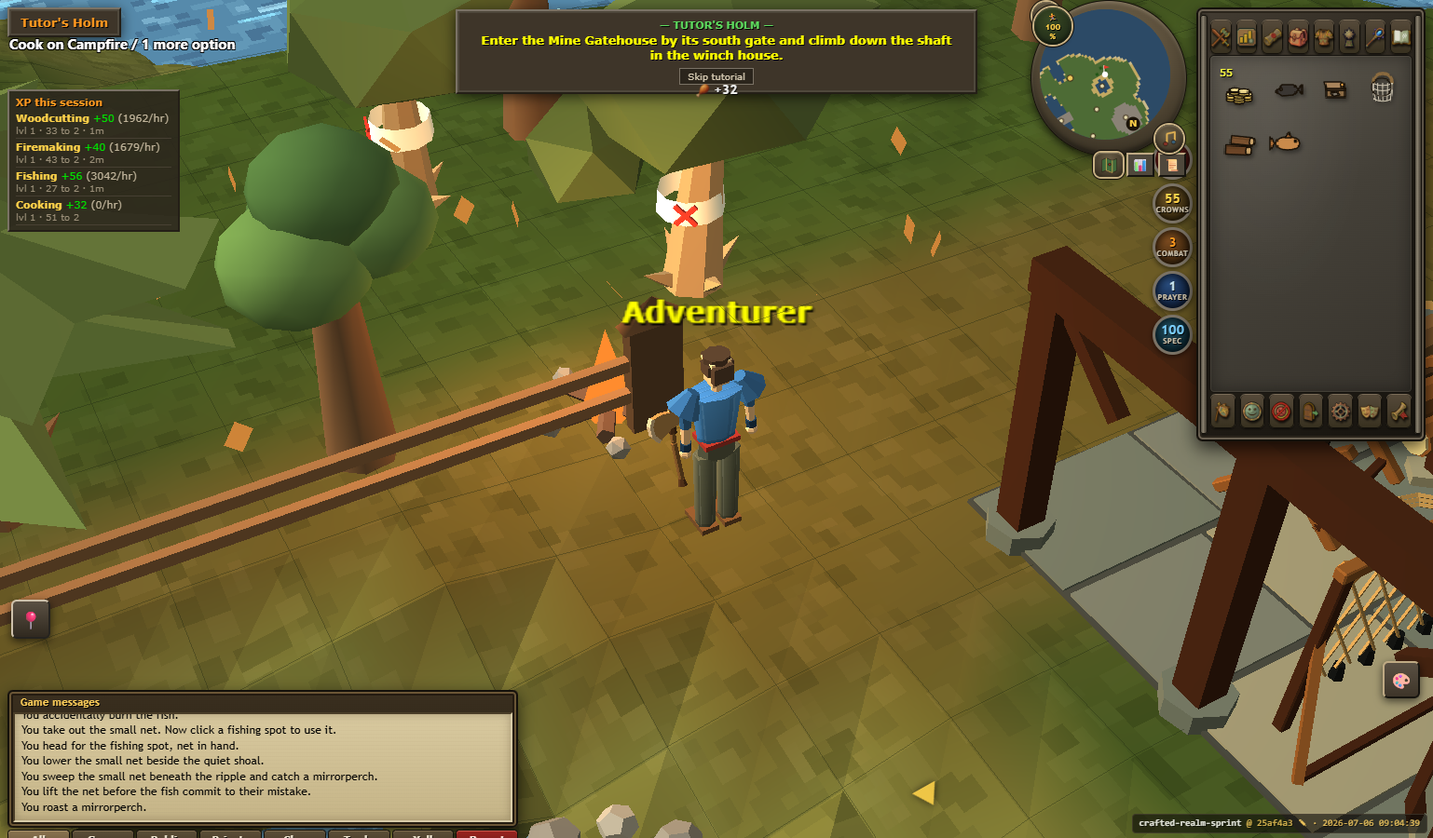
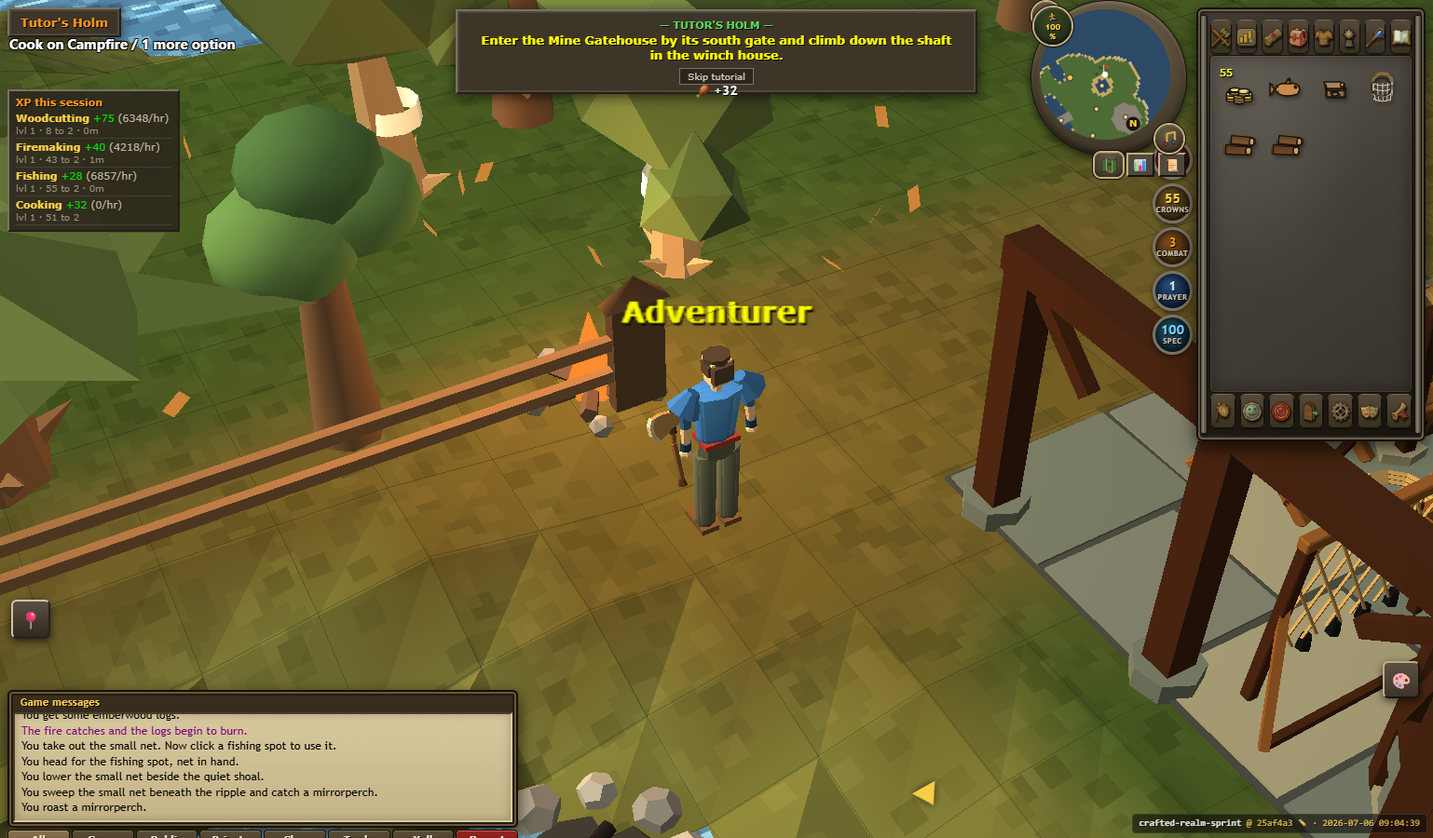
feat(holm): step 3 look pass 3 after owner review 2 (brighter 2004 look)
- Ground: warm yellow-green blended HSL with bright top-down baked light,
  earth-brown steep faces, no ground grid, black edge pushed out, calm
  pale unlit water.
- Camera 45-degree lens, higher pitch; brighter model lights.
- Trees: dense lumpy olive crowns with dark undersides, smooth leaves,
  thick flared trunks; yellow-brown fences; fuller bushes.
- House: thinner walls, rounded field-stone texture, wooden shutters,
  thatch roof (own canvas patterns).
- Route QA: cook retry steps to another side of the fire after a miss.

Gates: world-v2 all locks, slice 13/13, route 20/20, smoke 105/105
foreground and hidden. Awaiting owner review 3.

diff --git a/src/holm_tile_house.js b/src/holm_tile_house.js
@@ -139,7 +139,7 @@ var HolmTileHouse=(function(){
     return {id:s.id,origin:s.origin.slice(),floorY:s.floorY,storeyH:s.storeyH,
       rooms:s.rooms.map(function(r){return {id:r.id,level:r.level,x:r.x,z:r.z,w:r.w,d:r.d};}),
       edges:list.sort(function(a,b){return a.level-b.level||a.z-b.z||a.x-b.x||(a.side<b.side?-1:a.side>b.side?1:0);}),
-      stairs:stairs,roofs:JSON.parse(JSON.stringify(s.roofs||[])),furniture:furniture,
+      stairs:stairs,roofs:JSON.parse(JSON.stringify(s.roofs||[])),furniture:furniture,roofMaterial:s.roofMaterial==='thatch'?'thatch':'slate',
       stats:{tiles:Object.keys(tiles).length,walls:list.filter(function(e){return e.kind==='wall';}).length,
         doors:list.filter(function(e){return e.kind==='door';}).length,windows:list.filter(function(e){return e.kind==='window';}).length,
         levels:levels.length}};
@@ -151,8 +151,8 @@ var HolmTileHouse=(function(){
   // Grey stone under grey slate, as the Bible reference's tutorial house (self-review 2026-09-24; the first
   // cream-plaster / terracotta pass read as a different game). wall/base/roof colours live in the textures.
   var DEFAULT_PALETTE={wall:'#aaa69c',base:'#817d74',timber:'#5e4127',roof:'#80848a',roofEdge:'#5e6167',
-    floor:'#8a6a44',upperFloor:'#7d5f3c',frame:'#d8cfb6',glass:'#27313a',door:'#6b4a2b'};
-  var T_WALL=.24;
+    floor:'#6f5134',upperFloor:'#6a4d31',frame:'#6e5226',glass:'#a8843c',door:'#6b4a2b'};   // wooden shutters, not dark glass
+  var T_WALL=.16;   // review 2: the references' walls are thin
 
   /* Our own low-res patterns, drawn once on a 64px canvas (one texture tile = one world unit):
    *   stone: two courses of offset blocks per unit, each block a slightly different grey, dark mortar;
@@ -166,14 +166,20 @@ var HolmTileHouse=(function(){
     function shade(base,seed){var s=Math.sin(seed*91.7)*43758.5;s-=Math.floor(s);var v=Math.round(base+(s-.5)*22);return 'rgb('+v+','+(v-3)+','+(v-9)+')';}
     // 2004 rework: warmer, darker field stone with irregular course heights, and a darker weathered slate,
     // both with fine speckle so surfaces never read as clean plastic at the gameplay camera.
+    // Review 2: the reference tutorial building's walls are rounded grey field stones in dark mortar.
     if(kind==='stone'){
-      x.fillStyle='#4a453e';x.fillRect(0,0,64,64);
-      var rows=[0,14,30,46,64];
-      for(var row=0;row<4;row++){var y0=rows[row],hh=rows[row+1]-y0,off=(row%2)*11;
-        for(var b=-1;b<4;b++){var bw=18+Math.round(rnd2(row*5+b)*8),bx=b*21+off;
-          x.fillStyle=shade(138,row*7+b+3);x.fillRect(bx+1,y0+1,bw-2,hh-2);
-          x.fillStyle='rgba(255,240,220,.07)';x.fillRect(bx+1,y0+1,bw-2,2);
-          x.fillStyle='rgba(0,0,0,.12)';x.fillRect(bx+1,y0+hh-3,bw-2,2);}}
+      x.fillStyle='#55534f';x.fillRect(0,0,64,64);
+      var rows=[0,11,22,33,44,55,66];
+      for(var row=0;row<6;row++){var y0=rows[row],hh=rows[row+1]-y0,off=(row%2)*7;
+        for(var b=-1;b<6;b++){var bw=11+Math.round(rnd2(row*5+b)*6),bx=b*13+off,cx2=bx+bw/2,cy2=y0+hh/2;
+          x.fillStyle=shade(150,row*7+b+3);x.beginPath();x.ellipse(cx2,cy2,bw/2-.5,hh/2-.5,0,0,6.283);x.fill();
+          x.fillStyle='rgba(255,255,255,.12)';x.beginPath();x.ellipse(cx2-1,cy2-2,bw/2-3,hh/2-3.5,0,0,6.283);x.fill();}}
+    }else if(kind==='thatch'){
+      // our own straw thatch: beige-grey courses of short vertical strokes, darker under each lap
+      x.fillStyle='#6c6350';x.fillRect(0,0,64,64);
+      for(var cr=0;cr<4;cr++)for(var st=0;st<40;st++){var sx2=rnd2(cr*97+st)*64,len=10+rnd2(cr*31+st)*6,v2=Math.round(118+rnd2(cr*13+st)*52);
+        x.strokeStyle='rgb('+v2+','+(v2-8)+','+(v2-34)+')';x.lineWidth=1.3;x.beginPath();x.moveTo(sx2,cr*16);x.lineTo(sx2+1,cr*16+len);x.stroke();}
+      for(var lap=0;lap<4;lap++){x.fillStyle='rgba(40,30,15,.28)';x.fillRect(0,lap*16+13,64,3);}
     }else{
       x.fillStyle='#3c3d40';x.fillRect(0,0,64,64);
       for(var r=0;r<4;r++)for(var t=-1;t<5;t++){var ox2=(r%2)*8+t*16;
@@ -241,7 +247,9 @@ var HolmTileHouse=(function(){
         segment(.35,y0+.175,'base');segment(.55,y0+.35+.275,'wall');                 // sill wall
         segment(H-1.75,y0+1.75+(H-1.75)/2,'wall');                                  // lintel wall
         var fw=horiz?.9:.3,fd=horiz?.3:.9;box(parent,fw,.85,fd,ex,y0+1.32,ez,'frame');
-        box(parent,horiz?.72:.34,.68,horiz?.34:.72,ex,y0+1.32,ez,'glass');
+        box(parent,horiz?.72:.3,.68,horiz?.3:.72,ex,y0+1.32,ez,'glass');                 // wooden shutters
+        box(parent,horiz?.05:.32,.7,horiz?.32:.05,ex,y0+1.32,ez,'frame');                // centre stile between the leaves
+        box(parent,horiz?.74:.32,.04,horiz?.32:.74,ex,y0+1.2,ez,'frame');                 // cross rail
         colliders.push(col);
       }else{
         // door or arch: posts, lintel, and (door) a hinged leaf that uses the game's door contract
@@ -274,7 +282,7 @@ var HolmTileHouse=(function(){
         var horiz=(e.side==='N'||e.side==='S'),ez=e.z+(e.side==='S'?1:0),ex=e.x+(e.side==='E'?1:0);
         return horiz?(ez===q[1]&&(e.x===q[0]||e.x+1===q[0])):(ex===q[0]&&(e.z===q[1]||e.z+1===q[1]));});
       var h=touching.some(function(e){return e.side==='N'||e.side==='S';}),v=touching.some(function(e){return e.side==='E'||e.side==='W';});
-      if(h&&v)box(l?upper:ground,.34,H,.34,ox+q[0],levelY(l)+H/2,oz+q[1],'base');   // dressed stone quoins
+      if(h&&v)box(l?upper:ground,.24,H,.24,ox+q[0],levelY(l)+H/2,oz+q[1],'base');   // dressed stone quoins
     });
 
     // roofs: gable = two slopes + two gable ends, hip = four slopes; overhang .3
@@ -295,7 +303,7 @@ var HolmTileHouse=(function(){
       }
       var g=new THREE.BufferGeometry();g.setAttribute('position',new THREE.Float32BufferAttribute(pos,3));g.computeVertexNormals();
       worldUV(g,0,0,0,true);   // slate courses run level on every slope and gable
-      var m=new THREE.Mesh(g,new THREE.MeshLambertMaterial({color:'#ffffff',map:patternTexture(THREE,'slate'),flatShading:true,side:THREE.DoubleSide}));m.castShadow=true;roof.add(m);
+      var m=new THREE.Mesh(g,new THREE.MeshLambertMaterial({color:'#ffffff',map:patternTexture(THREE,p.roofMaterial||'slate'),flatShading:true,side:THREE.DoubleSide}));m.castShadow=true;roof.add(m);
       // a thin fascia so the eaves read as a solid edge from the gameplay camera
       [[cx,z0,x1-x0,.08],[cx,z1,x1-x0,.08]].forEach(function(f){box(roof,f[2],.16,f[3],f[0],top-.02,f[1],'roofEdge');});
     });

diff --git a/src/holm_v3_scenery.js b/src/holm_v3_scenery.js
@@ -4,8 +4,8 @@
  * v3 terrain bundle so nothing floats or sinks. Trees, rocks and the boat block their tile. */
 var HolmV3Scenery=(function(){
   'use strict';
-  var COL={trunk:'#5a3d22',oak:'#3f6b25',oakLight:'#4d7c2d',pine:'#2f5a2a',bush:'#44722a',
-    rock:'#8a867c',rockDark:'#6d6a62',fence:'#6a4a2a',fenceLight:'#80603a',boat:'#6b4a2b',boatLight:'#8a6438',
+  var COL={trunk:'#4a3320',oak:'#667529',oakLight:'#7a8a32',pine:'#34502a',bush:'#5e6e26',
+    rock:'#8a867c',rockDark:'#6d6a62',fence:'#7a5a2a',fenceLight:'#a07a3a',boat:'#6b4a2b',boatLight:'#8a6438',
     flowerA:'#d8c24a',flowerB:'#c9543f',flowerC:'#e8e2d0'};
   var cache={};
   function mat(T,c){return cache[c]||(cache[c]=new T.MeshLambertMaterial({color:c,flatShading:true}));}
@@ -18,32 +18,41 @@ var HolmV3Scenery=(function(){
   function leafTexture(T){
     if(cache.leafTex||typeof document==='undefined')return cache.leafTex||null;
     var c=document.createElement('canvas');c.width=c.height=64;var x=c.getContext('2d');
-    x.fillStyle='#c4c4c4';x.fillRect(0,0,64,64);
-    for(var i=0;i<90;i++){var px=rnd(i*3.1)*64,py=rnd(i*7.7)*64,r=2+rnd(i*1.9)*4,v=Math.round(165+rnd(i*5.3)*90);
+    x.fillStyle='#9a9a9a';x.fillRect(0,0,64,64);
+    for(var i=0;i<140;i++){var px=rnd(i*3.1)*64,py=rnd(i*7.7)*64,r=1.5+rnd(i*1.9)*3.5,v=Math.round(120+rnd(i*5.3)*135);
       x.fillStyle='rgb('+v+','+v+','+v+')';x.beginPath();x.ellipse(px,py,r,r*.6,rnd(i)*3,0,6.283);x.fill();}
-    var t=new T.CanvasTexture(c);t.wrapS=t.wrapT=T.RepeatWrapping;t.repeat.set(2,2);
+    var t=new T.CanvasTexture(c);t.wrapS=t.wrapT=T.RepeatWrapping;t.repeat.set(3,3);
     return (cache.leafTex=t);
   }
   // A leafy clump: a once-subdivided icosahedron, gently lumpy, each vertex a slightly different green so the
   // crown reads mottled and round like the reference trees rather than a sharp 20-sided gem.
+  // Review 2: the references' crowns are dense, lumpy and olive-yellow on top, dark underneath.
+  var TOP=new (typeof THREE!=='undefined'?THREE.Color:function(){})('#93a23e'),UNDER=new (typeof THREE!=='undefined'?THREE.Color:function(){})('#39461a');
   function clump(T,g,r,hex,x,y,z,seed){
-    var geo=new T.IcosahedronGeometry(r,1),p=geo.attributes.position,cols=[],base=new T.Color(hex);
+    var geo=new T.IcosahedronGeometry(r,2),p=geo.attributes.position,cols=[],base=new T.Color(hex);
     for(var i=0;i<p.count;i++){
-      var k=.9+rnd(seed+i*.37)*.2;p.setXYZ(i,p.getX(i)*k,p.getY(i)*k*.92,p.getZ(i)*k);
-      // olive, not lime, under the game sun
-      var c=base.clone().multiplyScalar(.95+rnd(seed*3+i)*.35+(p.getY(i)>0?.1:-.1));cols.push(c.r,c.g,c.b);
+      var vx=p.getX(i),vy=p.getY(i),vz=p.getZ(i),len=Math.hypot(vx,vy,vz)||1;
+      // lumps: neighbouring vertices share a coarse noise so the silhouette bulges in leaf clusters
+      var k=.86+(.5+.5*Math.sin(vx*3.1+seed)*Math.cos(vz*2.7+seed*.7)*Math.sin(vy*2.3+seed*1.3))*.3;
+      p.setXYZ(i,vx*k,vy*k*.9,vz*k);
+      var up=vy/len,c=base.clone().lerp(up>0?TOP:UNDER,Math.abs(up)*.6).multiplyScalar(.9+rnd(seed*3+i)*.2);
+      cols.push(c.r,c.g,c.b);
     }
     geo.setAttribute('color',new T.Float32BufferAttribute(cols,3));geo.computeVertexNormals();
-    if(!cache.leaf)cache.leaf=new T.MeshLambertMaterial({vertexColors:true,flatShading:true,map:leafTexture(T)});
+    if(!cache.leaf)cache.leaf=new T.MeshLambertMaterial({vertexColors:true,map:leafTexture(T)});   // smooth, as the reference crowns
     var m=new T.Mesh(geo,cache.leaf);m.position.set(x,y,z);m.castShadow=true;m.receiveShadow=true;g.add(m);return m;
   }
   var MAKERS={
-    oak:function(T,g,s){var h=1.7+rnd(s)*.5;mesh(T,g,new T.CylinderGeometry(.17,.26,h,7),COL.trunk,0,h/2,0);
-      clump(T,g,1.25+rnd(s+1)*.25,COL.oak,0,h+.75,0,s);
-      clump(T,g,.85,COL.oakLight,.6,h+1.15,.25,s+5);clump(T,g,.8,COL.oak,-.55,h+1.05,-.35,s+9);clump(T,g,.7,COL.oakLight,.1,h+1.6,-.1,s+13);},
+    oak:function(T,g,s){var h=1.9+rnd(s)*.5;
+      mesh(T,g,new T.CylinderGeometry(.24,.38,h,8),COL.trunk,0,h/2,0);                       // thick trunk, flared foot
+      mesh(T,g,new T.CylinderGeometry(.38,.5,.3,8),COL.trunk,0,.15,0);
+      [[.5,.3],[-.45,-.35]].forEach(function(b,i){var br=mesh(T,g,new T.CylinderGeometry(.08,.13,1,6),COL.trunk,b[0]*.6,h-.1,b[1]*.6);br.rotation.z=-b[0]*1.1;br.rotation.x=b[1]*1.1;});
+      clump(T,g,1.45+rnd(s+1)*.25,COL.oak,0,h+.9,0,s);
+      clump(T,g,1.05,COL.oakLight,.85,h+.75,.35,s+5);clump(T,g,1.0,COL.oak,-.8,h+.8,-.4,s+9);
+      clump(T,g,.95,COL.oakLight,.2,h+1.75,-.15,s+13);clump(T,g,.85,COL.oak,-.2,h+.7,.9,s+17);},
     pine:function(T,g,s){var h=.9;mesh(T,g,new T.CylinderGeometry(.13,.18,h,6),COL.trunk,0,h/2,0);
       [[1.05,1.3,h+.5],[.82,1.1,h+1.25],[.55,.9,h+1.9]].forEach(function(c){mesh(T,g,new T.ConeGeometry(c[0],c[1],7),COL.pine,0,c[2],0);});},
-    bush:function(T,g,s){clump(T,g,.5+rnd(s)*.12,COL.bush,0,.36,0,s);clump(T,g,.34,COL.oakLight,.28,.48,.1,s+3);},
+    bush:function(T,g,s){clump(T,g,.6+rnd(s)*.12,COL.bush,0,.42,0,s);clump(T,g,.42,COL.oakLight,.35,.55,.15,s+3);clump(T,g,.38,COL.bush,-.3,.45,-.2,s+7);},
     flowers:function(T,g,s){[COL.flowerA,COL.flowerB,COL.flowerC].forEach(function(c,i){
       for(var k=0;k<3;k++){var a=(i*3+k)*2.1+s,r=.18+rnd(s+i+k)*.22;mesh(T,g,new T.BoxGeometry(.08,.08,.08),c,Math.cos(a)*r,.2,Math.sin(a)*r);
         mesh(T,g,new T.BoxGeometry(.03,.18,.03),COL.bush,Math.cos(a)*r,.09,Math.sin(a)*r);}});},

diff --git a/src/holm_v3_render.js b/src/holm_v3_render.js
@@ -15,7 +15,7 @@ var HolmV3Render=(function(){
                 '#5c5639',   // 3 creek bed
                 '#5f6e50'];  // 4 sea floor (under water)
   var OVERLAY=[null,'#7a5a33','#7f7c73','#bba767'];   // none, dirt, cobble, sand
-  var WATER='#35629a';
+  var WATER='#7e92ae';   // the references' calm pale blue-grey (unlit, so the scene sun cannot wash it white)
 
   function jitter(x,z){ var s=Math.sin(x*12.9898+z*78.233)*43758.5453; return (s-Math.floor(s))*.08-.04; }
   function colour(THREE,hex,x,z,shade){ var c=new THREE.Color(hex); return c.multiplyScalar(1+jitter(x,z)+(shade||0)); }
@@ -56,19 +56,26 @@ var HolmV3Render=(function(){
    * 3. The final colour is the blended HSL with lightness scaled by that light (x/128). Path overlays
    *    keep their own flat colour per tile but take the same corner lights, so edges stay crisp while
    *    the shading stays continuous. Rendered unlit (MeshBasicMaterial) and smooth, as the old client did. */
-  var HSL=[[0.125,.42,.56],   // 0 sand
-           [0.255,.48,.36],   // 1 grass
-           [0.11,.09,.46],    // 2 rock
-           [0.13,.26,.30],    // 3 creek bed
-           [0.27,.16,.30]];   // 4 sea floor
-  var OVERLAY_HSL=[null,[0.085,.34,.34],[0.10,.05,.46],[0.12,.36,.58]];   // dirt, cobble, sand
-  var LIGHT=[-.70,.14,.70];   // toward the light, in our axes (x east, y up, z south); low and from the west-south
-  function lightAt(b,x,z){
+  // Review 2 (owner, 2026-09-24): "too dark". Retuned against the Bible references: warm yellow-green grass,
+  // wide tan sand, tan-brown earth on steep faces, bright ground lit mostly from above.
+  var HSL=[[0.115,.40,.60],   // 0 sand
+           [0.215,.60,.40],   // 1 grass
+           [0.09,.26,.42],    // 2 rock / earth face
+           [0.11,.28,.36],    // 3 creek bed
+           [0.12,.30,.52]];   // 4 sea floor (sand under water)
+  var CLIFF=[0.085,.30,.40];  // steep faces blend toward bare earth, as the references' hill cuts do
+  var OVERLAY_HSL=[null,[0.085,.36,.38],[0.10,.04,.50],[0.12,.36,.60]];   // dirt, cobble, sand
+  var LIGHT=(function(){var v=[-.42,.82,.40],l=Math.hypot(v[0],v[1],v[2]);return [v[0]/l,v[1]/l,v[2]/l];})();
+  function normalAt(b,x,z){
     var W=b.base.width,H=b.base.depth,s=W+1,h=b.base.heights;
     var cx=Math.max(1,Math.min(W-1,x)),cz=Math.max(1,Math.min(H-1,z));
-    var dx=h[cz*s+cx+1]-h[cz*s+cx-1],dz=h[(cz+1)*s+cx]-h[(cz-1)*s+cx];
-    var len=Math.hypot(dx,2,dz),nx=-dx/len,ny=2/len,nz=-dz/len;
-    return 96+85*(nx*LIGHT[0]+ny*LIGHT[1]+nz*LIGHT[2]);
+    var dx=h[cz*s+cx+1]-h[cz*s+cx-1],dz=h[(cz+1)*s+cx]-h[(cz-1)*s+cx],len=Math.hypot(dx,2,dz);
+    return [-dx/len,2/len,-dz/len];
+  }
+  // Baked light, on the old client's 128 = neutral scale: bright flat ground, darker faces turned away.
+  function lightAt(b,x,z){
+    var n=normalAt(b,x,z),d=Math.max(0,n[0]*LIGHT[0]+n[1]*LIGHT[1]+n[2]*LIGHT[2]);
+    return 128*(.6+.5*d);
   }
   function hslToRgb(h,s,l){var c=new (typeof THREE!=='undefined'?THREE.Color:Object)();if(!c.setHSL)return null;return c.setHSL(h,s,Math.max(0,Math.min(1,l)));}
   // One pass over the whole lattice: blended HSL (11x11 box) and baked light per vertex.
@@ -87,21 +94,24 @@ var HolmV3Render=(function(){
     }
     var bc=box(ch),bs=box(shh),bsat=box(ss),bl=box(sl);
     for(var z=0;z<=H;z++)for(var x=0;x<=W;x++){var j=z*s+x;
-      hue[j]=((Math.atan2(bs[j],bc[j])/6.2832)+1)%1;sat[j]=bsat[j];lit[j]=bl[j];light[j]=lightAt(b,x,z);}
+      hue[j]=((Math.atan2(bs[j],bc[j])/6.2832)+1)%1;sat[j]=bsat[j];lit[j]=bl[j];light[j]=lightAt(b,x,z);
+      // steep ground shows bare earth: blend toward CLIFF as the slope passes ~35 degrees
+      var ny=normalAt(b,x,z)[1],t=Math.max(0,Math.min(1,(.86-ny)/.18));
+      if(t>0&&m[j]!==4){hue[j]=hue[j]+(CLIFF[0]-hue[j])*t;sat[j]+=(CLIFF[1]-sat[j])*t;lit[j]+=(CLIFF[2]-lit[j])*t;}}
     return (b._v2004={hue:hue,sat:sat,lit:lit,light:light});
   }
 
   // Sea plane plus the creek ribbon at its authored water heights, in one flat 2004 blue.
   function buildWater(THREE,bundle){
     var group=new THREE.Group();group.name='holm-v3-water';
-    var mat=new THREE.MeshLambertMaterial({color:WATER,transparent:true,opacity:.9,flatShading:true});
+    var mat=new THREE.MeshBasicMaterial({color:WATER,transparent:true,opacity:.94});
     var sea=new THREE.Mesh(new THREE.PlaneGeometry(bundle.width+160,bundle.depth+160),mat);
     sea.rotation.x=-Math.PI/2;sea.position.set(bundle.width/2,-.12,bundle.depth/2);sea.name='holm-v3-sea';
     group.add(sea);
     if(bundle.base.creek&&typeof HolmArrivalWater!=='undefined'){
       var r=HolmArrivalWater.ribbon(bundle.base.creek),g=new THREE.BufferGeometry();
       g.setAttribute('position',new THREE.Float32BufferAttribute(r.positions,3));g.setIndex(r.indices);g.computeVertexNormals();
-      var creek=new THREE.Mesh(g,new THREE.MeshLambertMaterial({color:WATER,side:THREE.DoubleSide,flatShading:true}));
+      var creek=new THREE.Mesh(g,new THREE.MeshBasicMaterial({color:WATER,side:THREE.DoubleSide}));
       creek.name='holm-v3-creek';group.add(creek);
     }
     return group;

diff --git a/src/holm_v3_preview.js b/src/holm_v3_preview.js
@@ -33,16 +33,21 @@ var HolmV3Preview=(function(){
       scene.add(s.group);s.colliders.forEach(function(c){WORLD.colliders.push(c);});installed.push({scenery:s});
     });
   }
-  // 2004 model lighting: one low side light from the west-south (matching the baked terrain light) and a
-  // dimmer, neutral ambient, so buildings and trees read moody rather than sunlit. Restored on dispose.
-  var savedLights=null;
+  // The look the owner asked for in review 2, matched to the Bible references: bright top light with a
+  // gentle side component (as the baked terrain light), warm ambient, and a wider, higher camera so more
+  // ground surrounds a smaller player. Everything is restored on dispose.
+  var savedLights=null,savedCam=null;
   function setLights(on){
     if(typeof scene==='undefined')return;
+    if(typeof camera!=='undefined'&&typeof camCtl!=='undefined'){
+      if(on){savedCam={fov:camera.fov,pitch:camCtl.pitch,dist:camCtl.dist};camera.fov=45;camCtl.pitch=1.12;camCtl.dist=22;camera.updateProjectionMatrix();}
+      else if(savedCam){camera.fov=savedCam.fov;camCtl.pitch=savedCam.pitch;camCtl.dist=savedCam.dist;camera.updateProjectionMatrix();savedCam=null;}
+    }
     if(on){
       savedLights=[];
       scene.children.forEach(function(o){
-        if(o.isHemisphereLight){savedLights.push([o,o.intensity,o.color.getHex(),o.groundColor.getHex()]);o.intensity=.55;o.color.set('#d8d8d0');o.groundColor.set('#4a4a40');}
-        else if(o.isDirectionalLight){savedLights.push([o,o.intensity,o.color.getHex(),o.position.clone()]);o.intensity=.95;o.color.set('#fff6e8');o.position.set(-70,22,70);}
+        if(o.isHemisphereLight){savedLights.push([o,o.intensity,o.color.getHex(),o.groundColor.getHex()]);o.intensity=.95;o.color.set('#f2f0e4');o.groundColor.set('#6a6a50');}
+        else if(o.isDirectionalLight){savedLights.push([o,o.intensity,o.color.getHex(),o.position.clone()]);o.intensity=.85;o.color.set('#fff8e8');o.position.set(-40,80,40);}
       });
     }else if(savedLights){
       savedLights.forEach(function(s){var o=s[0];o.intensity=s[1];o.color.setHex(s[2]);if(o.isHemisphereLight)o.groundColor.setHex(s[3]);else o.position.copy(s[3]);});

diff --git a/tools/test_world_v2.js b/tools/test_world_v2.js
@@ -153,9 +153,9 @@ check('the follow camera is clamped out of the surface terrain along its boom',
     /slab\.name='ground';slab\.userData\.plane=r\.level;/.test(house)&&
     fs.existsSync(path.join(ROOT,'tools','qa_holm_v3_slice.js'))&&fs.existsSync(path.join(ROOT,'tools','test_holm_tile_house.js')));
   const r3=fs.readFileSync(path.join(ROOT,'src','holm_v3_render.js'),'utf8'),p3=fs.readFileSync(path.join(ROOT,'src','holm_v3_preview.js'),'utf8');
-  check('the v3 preview keeps the owner-directed 2004 look (review 1): blended HSL + baked light terrain, black edge, clickable bridge decks',
-    /function prepare2004\(b\)\{/.test(r3)&&/return 96\+85\*/.test(r3)&&/new THREE\.MeshBasicMaterial\(\{vertexColors:true\}\)/.test(r3)&&
-    /hit\.name='ground';/.test(r3)&&/v3Look \? 0x000000/.test(mainSource)&&/camCtl\.dist\+14/.test(mainSource)&&
+  check('the v3 preview keeps the owner-directed 2004 look (review 2): blended HSL + bright baked light, earth cliffs, no grid, far black edge, clickable decks',
+    /function prepare2004\(b\)\{/.test(r3)&&/return 128\*\(\.6\+\.5\*d\);/.test(r3)&&/var CLIFF=\[/.test(r3)&&/noGrid/.test(ui4)&&/new THREE\.MeshBasicMaterial\(\{vertexColors:true\}\)/.test(r3)&&
+    /hit\.name='ground';/.test(r3)&&/v3Look \? 0x000000/.test(mainSource)&&/camCtl\.dist\+30/.test(mainSource)&&
     /function setLights\(on\)\{/.test(p3)&&/WORLD\.clickables\.push\(g\.userData\.deckHit\)/.test(p3));
   check('the restore greeting names Tutor\'s Holm or Veyhollow from the loaded provider',
     /\/\^tutors-holm\/\.test\(this\.lastLoad\.provider\)/.test(fs.readFileSync(path.join(ROOT,'src','ui_save.js'),'utf8')));

diff --git a/tools/capture_holm_v3_review.js b/tools/capture_holm_v3_review.js
@@ -7,13 +7,13 @@ const OUT=path.join(__dirname,'..','scratchpad','holm_v3_review');fs.mkdirSync(O
 const BASE=(process.env.SMOKE_BASE||'http://127.0.0.1:8777')+'/?holmV3=1&qaProfile=v3-review-'+Date.now().toString(36);
 const sleep=ms=>new Promise(r=>setTimeout(r,ms));
 const VIEWS=[
-  {name:'01_arrival_cove',pos:[64.5,112.5],plane:0,yaw:.25,dist:52,pitch:.95},
-  {name:'02_guide_house_front',pos:[66.5,104.5],plane:0,yaw:.62,dist:30,pitch:.8},
-  {name:'03_guide_house_side',pos:[73.5,101.5],plane:0,yaw:1.9,dist:28,pitch:.75},
-  {name:'04_hall_interior',pos:[64.5,97.5],plane:0,yaw:.5,dist:17,pitch:1.1},
-  {name:'05_loft',pos:[64.5,96.5],plane:1,yaw:.5,dist:17,pitch:1.15},
-  {name:'06_creek_bridge',pos:[49.5,99.5],plane:0,yaw:1.2,dist:24,pitch:.85},
-  {name:'07_island_overview',pos:[62.5,90.5],plane:0,yaw:.3,dist:70,pitch:1.2}
+  {name:'01_arrival_cove',pos:[63.5,111.5],plane:0,yaw:.3,dist:34,pitch:1.05},
+  {name:'02_guide_house_front',pos:[67.5,105.5],plane:0,yaw:.55,dist:22,pitch:1.0},
+  {name:'03_guide_house_side',pos:[74.5,100.5],plane:0,yaw:1.9,dist:20,pitch:.95},
+  {name:'04_hall_interior',pos:[64.5,97.5],plane:0,yaw:.5,dist:14,pitch:1.15},
+  {name:'05_loft',pos:[64.5,96.5],plane:1,yaw:.5,dist:14,pitch:1.2},
+  {name:'06_creek_bridge',pos:[49.5,99.5],plane:0,yaw:1.2,dist:18,pitch:1.0},
+  {name:'07_island_overview',pos:[62.5,92.5],plane:0,yaw:.3,dist:52,pitch:1.25}
 ];
 (async()=>{
   const browser=await puppeteer.launch({executablePath:'C:/Program Files/Google/Chrome/Application/chrome.exe',headless:'new',

diff --git a/index.html b/index.html
@@ -919,7 +919,7 @@
 <script src="src/audio_title_full.js?v=1"></script>
 <script src="src/audio_hearthside.js?v=1"></script>
 <script src="src/audio_minstrel.js?v=1"></script>
-<script src="src/game4_ui.js?v=r39"></script>
+<script src="src/game4_ui.js?v=r40"></script>
 <script src="src/ui_osrs.js?v=1"></script>
 <script src="src/ui_prayer_magic.js?v=1"></script>
 <script src="src/ui_combat.js?v=1"></script>
@@ -1028,12 +1028,12 @@
 <script src="src/holm_arrival_porch_target.js?v=1"></script>
 <script src="src/holm_arrival_qa.js?v=9"></script>
 <script src="src/holm_v3_terrain.js?v=1"></script>
-<script src="src/holm_v3_render.js?v=4"></script>
-<script src="src/holm_tile_house.js?v=4"></script>
+<script src="src/holm_v3_render.js?v=5"></script>
+<script src="src/holm_tile_house.js?v=6"></script>
 <script src="src/holm_tile_furniture.js?v=1"></script>
-<script src="src/holm_v3_scenery.js?v=5"></script>
-<script src="src/holm_v3_preview.js?v=4"></script>
-<script src="src/frame_stage_metrics.js?v=1"></script><script src="src/game5_main.js?v=h49"></script>
+<script src="src/holm_v3_scenery.js?v=6"></script>
+<script src="src/holm_v3_preview.js?v=5"></script>
+<script src="src/frame_stage_metrics.js?v=1"></script><script src="src/game5_main.js?v=h50"></script>
 <script src="src/perf_probe.js?v=1"></script>
 <script src="src/tut_firemaking.js?v=1"></script>
 <script>

diff --git a/tools/qa_holm_full_route.js b/tools/qa_holm_full_route.js
@@ -211,6 +211,13 @@ async function count(page, id){ return page.evaluate(id => Player.count(id), id)
   for (let attempt = 0; attempt < 4 && !cooked; attempt++) {
     if ((await count(page, 'raw_perch')) < 1) await fishOnce();
     if (!(await ensureFire())) continue;
+    // The fire lands wherever the logs were lit; from some stances trees or the HUD hide every pixel of it.
+    // After a miss, step to a different side of the fire before clicking again (a player would too).
+    if (attempt > 0) {
+      const side = [[0, 2.5], [2.5, 0], [0, -2.5], [-2.5, 0]][attempt % 4];
+      const f = await page.evaluate(() => { const o = WORLD.clickables.find(o => o.userData && o.userData.kind === 'fire' && o.parent); const p = o.getWorldPosition(new THREE.Vector3()); return [p.x, p.z]; });
+      await walkTo(page, Math.floor(f[0] + side[0]) + .5, Math.floor(f[1] + side[1]) + .5, 20000);
+    }
     const rr = await clickObject(page, "WORLD.clickables.find(o=>o.userData&&o.userData.kind==='fire'&&o.parent)", {dist: 12});
     cookLoc = rr.loc;
     cooked = await waitStep(page, 6, 20000);

diff --git a/src/game4_ui.js b/src/game4_ui.js
@@ -1116,8 +1116,10 @@ function updateGroundGrid(){
   // The surface grid is a navigation aid for the broad overworld. On authored
   // underground meshes it floats at the logical walk height and visually
   // flattens real depressions and shoulders, so caves own their floor entirely.
-  if(_groundGrid) _groundGrid.visible=(pl===0);
-  if(pl!==0) return;
+  // The 2004 look (v3 preview) has no ground grid: tiles read from shading and paths, as in the references.
+  const noGrid=typeof HolmV3Preview!=='undefined'&&HolmV3Preview.active();
+  if(_groundGrid) _groundGrid.visible=(pl===0&&!noGrid);
+  if(pl!==0||noGrid) return;
   const R=14, ptx=Math.floor(player.position.x), ptz=Math.floor(player.position.z);
   if(_groundGrid && ptx===_gridTX && ptz===_gridTZ) return;
   _gridTX=ptx; _gridTZ=ptz;

diff --git a/src/game5_main.js b/src/game5_main.js
@@ -768,7 +768,7 @@ function update(dt){
   const v3Look=typeof HolmV3Preview!=='undefined'&&HolmV3Preview.active();
   const targetFog = new THREE.Color(v3Look ? 0x000000 : underground ? 0x30251c : ZONES[curZone].fog);
   if(scene.fog){
-    const targetNear=v3Look?camCtl.dist+14:underground?78:65,targetFar=v3Look?camCtl.dist+24:underground?230:205;
+    const targetNear=v3Look?camCtl.dist+30:underground?78:65,targetFar=v3Look?camCtl.dist+46:underground?230:205;
     scene.fog.near += (targetNear-scene.fog.near)*Math.min(1,dt*2.4);
     scene.fog.far += (targetFar-scene.fog.far)*Math.min(1,dt*2.4);
   }

diff --git a/Bible_References/PASS_LOG.md b/Bible_References/PASS_LOG.md
@@ -3820,3 +3820,12 @@ length (slight medium-length read in 3/4).
 - Own textures: irregular field stone, dark slate, dappled leaves; storey 2.2; low side light for models.
 - Island 109x81 tiles, creek coast to coast, bridge the only surface crossing (locked in tests); bridge decks
   clickable. Slice gate 13/13, terrain tests 9/9. Captures scratchpad/holm_v3_review/01..07. Awaiting review 2.
+
+## 2026-09-24 — Step 3 look pass 3 after owner review 2 ("still off": too dark, models, camera, ground)
+- Matched to the Bible references and the 2004 terrain model: bright warm yellow-green ground lit mostly from
+  above, tan earth on steep faces, no ground grid, black edge pushed far out, calm pale water (unlit).
+- Camera: 45-degree lens, higher pitch, player smaller in frame. Model light brighter, from above.
+- Trees: dense lumpy olive crowns (dark undersides), smooth leaf shading, thick flared trunks. Fences yellow-brown.
+- House: thinner walls with rounded field-stone texture, wooden shutters, thatch roof (own patterns).
+- Gates: world-v2 all locks (2004-look lock updated to review 2), slice 13/13, route 20/20 on rerun (first run
+  cascaded from an unreachable campfire click; the cook retry now changes side), smoke both phases.
